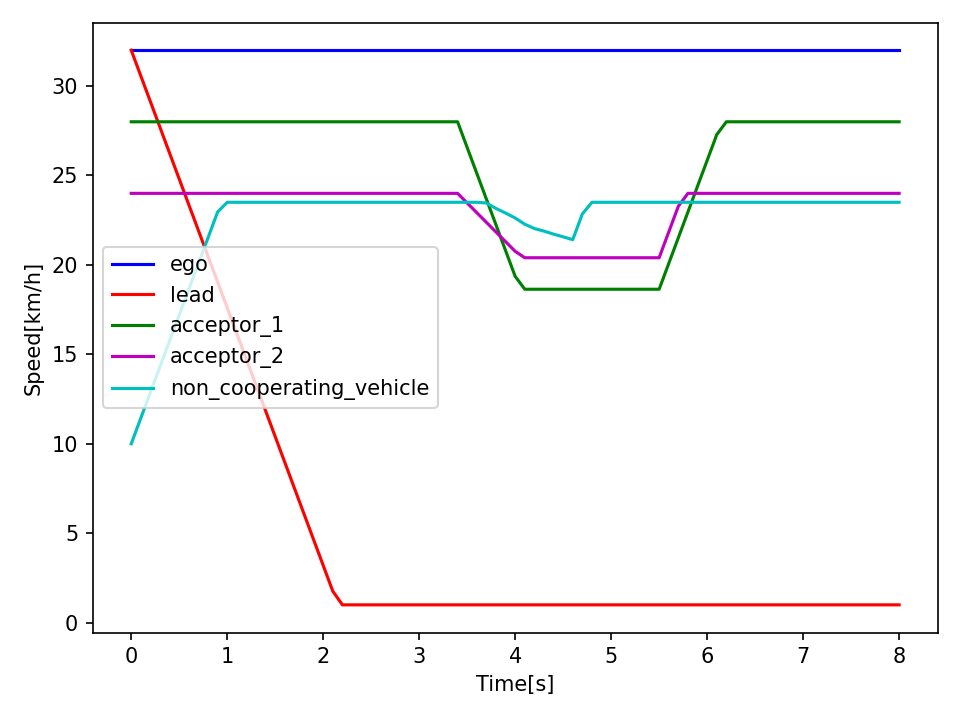
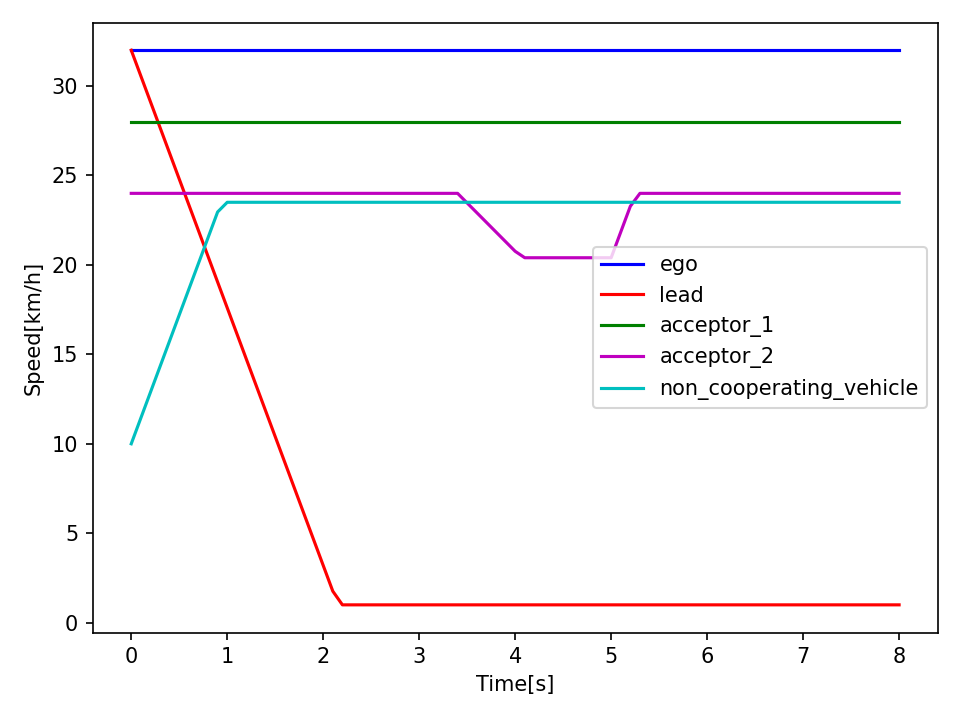
Fix secondary requester speed handling and refresh cascading demo

diff --git a/tests/test_smoke.py b/tests/test_smoke.py
@@ -360,6 +360,56 @@ class StructureSmokeTests(unittest.TestCase):
         self.assertEqual(profiles["ego"], [1.0])
         self.assertEqual(profiles["acceptor_1"], [2.0])
 
+    def test_secondary_requester_ignores_downstream_acceptor_speed_state(self):
+        requester_stage_specs = [
+            build_requester_stage_spec("acceptor_1", C.lane_change, "acceptor_2", "secondary", secondary=True),
+        ]
+        requester_local_paths = {
+            "acceptor_1": ([0.0, 1.0], [6.0, 10.0], [0.0, 0.0], [0.0, 0.0]),
+        }
+        requester_states = {"acceptor_1": State(v=7.0)}
+        requester_target_speeds = {"acceptor_1": 7.0}
+
+        class History:
+            target_ind = 0
+
+        profiles = build_requester_speed_profiles(
+            requester_stage_specs,
+            requester_local_paths,
+            requester_states,
+            requester_target_speeds,
+            {"acceptor_1": History()},
+            {"acceptor_1": {"speed_state": C.reduce_speed_for_req_medium, "speed_delta": None}},
+            State(),
+        )
+
+        self.assertEqual(profiles["acceptor_1"], [7.0, 7.0])
+
+    def test_secondary_requester_still_applies_explicit_speed_delta(self):
+        requester_stage_specs = [
+            build_requester_stage_spec("acceptor_1", C.lane_change, "acceptor_2", "secondary", secondary=True),
+        ]
+        requester_local_paths = {
+            "acceptor_1": ([0.0, 1.0], [6.0, 10.0], [0.0, 0.0], [0.0, 0.0]),
+        }
+        requester_states = {"acceptor_1": State(v=7.0)}
+        requester_target_speeds = {"acceptor_1": 7.0}
+
+        class History:
+            target_ind = 0
+
+        profiles = build_requester_speed_profiles(
+            requester_stage_specs,
+            requester_local_paths,
+            requester_states,
+            requester_target_speeds,
+            {"acceptor_1": History()},
+            {"acceptor_1": {"speed_state": C.follow_planned, "speed_delta": -1.5}},
+            State(),
+        )
+
+        self.assertEqual(profiles["acceptor_1"], [5.5, 5.5])
+
     def test_build_role_reference_trajectories_updates_histories_by_role(self):
         class History:
             def __init__(self):
@@ -681,6 +731,19 @@ class StructureSmokeTests(unittest.TestCase):
         events = result["events"]
         self.assertTrue(any("ID 1 motion -> lane_change" in event for event in events))
         self.assertTrue(any("ID 3 motion -> lane_change" in event for event in events))
+        id3_history = result["histories"][2]
+        id3_start_y = configs[2].start[1]
+        id3_target_y = float(configs[2].metadata["alt_goal_y"])
+        id3_lane_change_indices = [
+            index
+            for index, y in enumerate(id3_history.y)
+            if id3_start_y + 0.05 < y < id3_target_y - 0.2
+        ]
+        self.assertTrue(id3_lane_change_indices)
+        self.assertGreaterEqual(
+            min(id3_history.v[index] for index in id3_lane_change_indices),
+            configs[2].target_speed - 1e-9,
+        )
 
     def test_three_vehicle_coordination_regression_ego_requests_target_lane_vehicle(self):
         configs = build_default_three_vehicle_coordination_configs()

diff --git a/maneuver_coordination/simulation/coordination/coordination_flow.py b/maneuver_coordination/simulation/coordination/coordination_flow.py
@@ -443,6 +443,8 @@ def build_requester_speed_profiles(
         target_ind = histories_by_role[requester_role].target_ind
 
         if bool(stage_spec["secondary"]):
+            # A secondary requester's speed_state belongs to the downstream
+            # accepting vehicle; only an explicit speed_delta applies here.
             speed_profiles[requester_role] = calc_speed_profile_accepting_vehicle(
                 local_path_x,
                 local_path_y,
@@ -450,7 +452,7 @@ def build_requester_speed_profiles(
                 target_speed,
                 requester_state,
                 int(stage_spec["motion_state"]),
-                coordination_by_requester[requester_role]["speed_state"],
+                follow_planned,
                 target_ind,
                 coordination_by_requester[requester_role].get("speed_delta"),
             )
